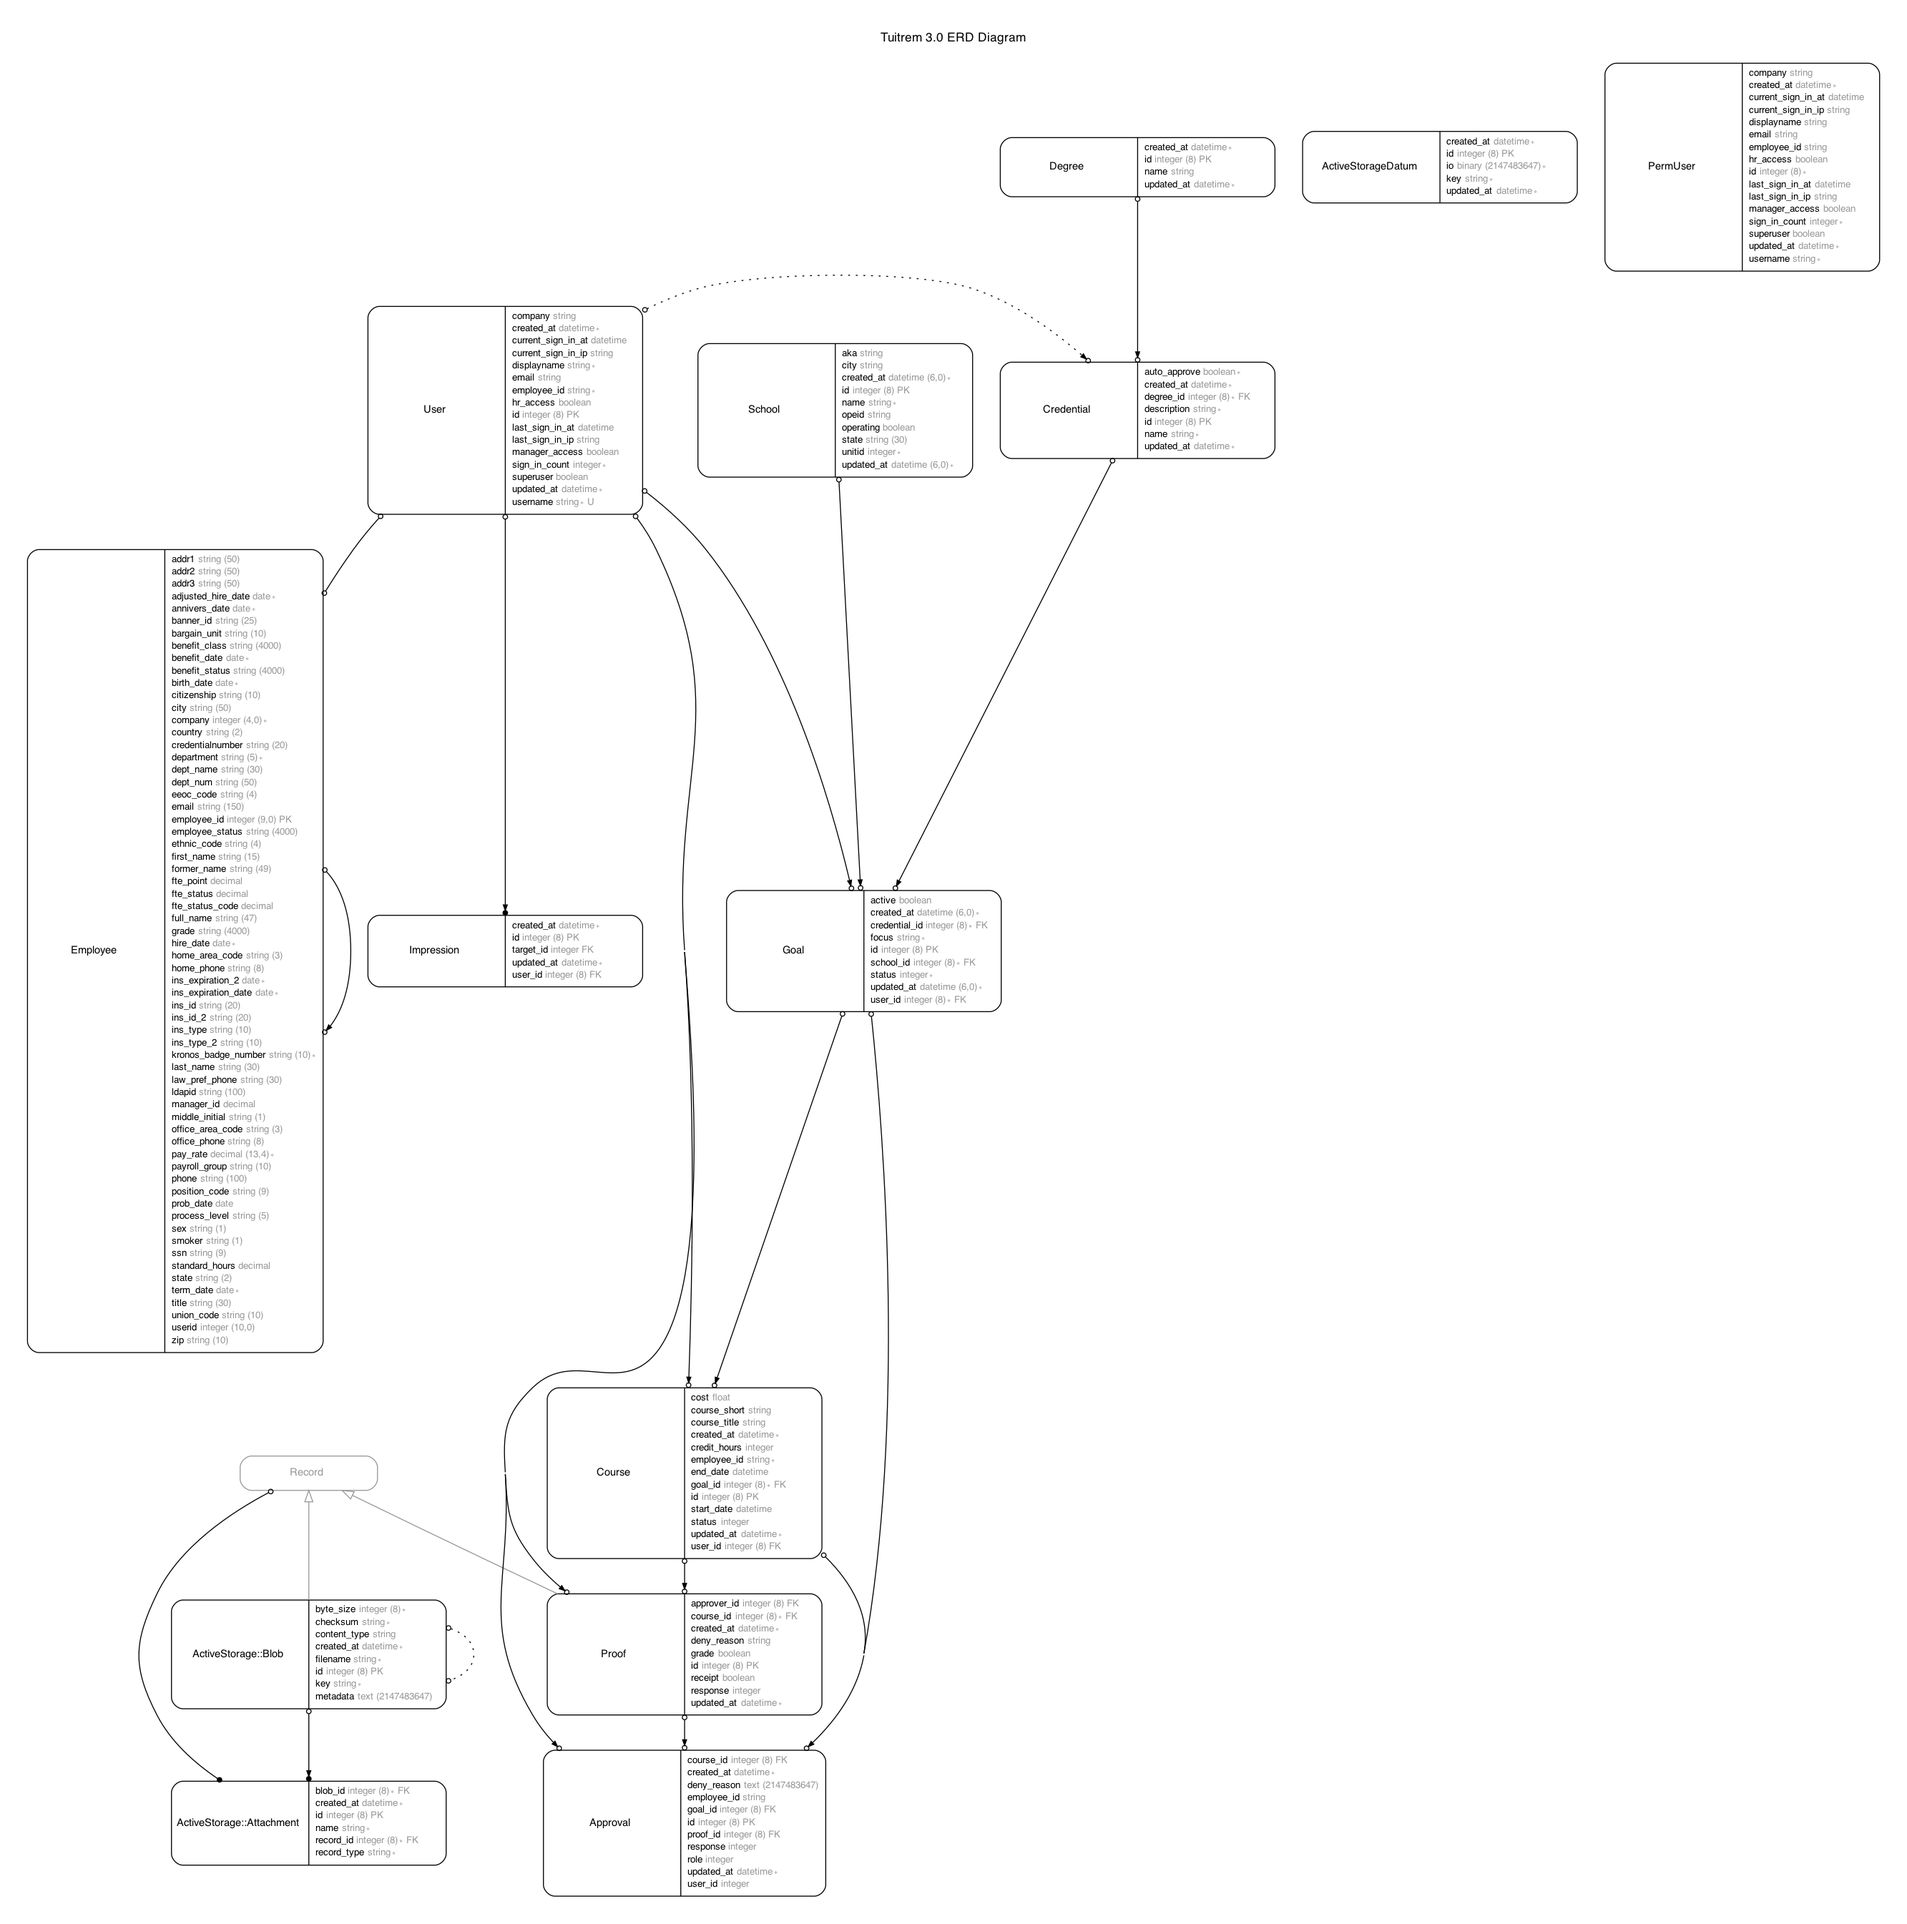
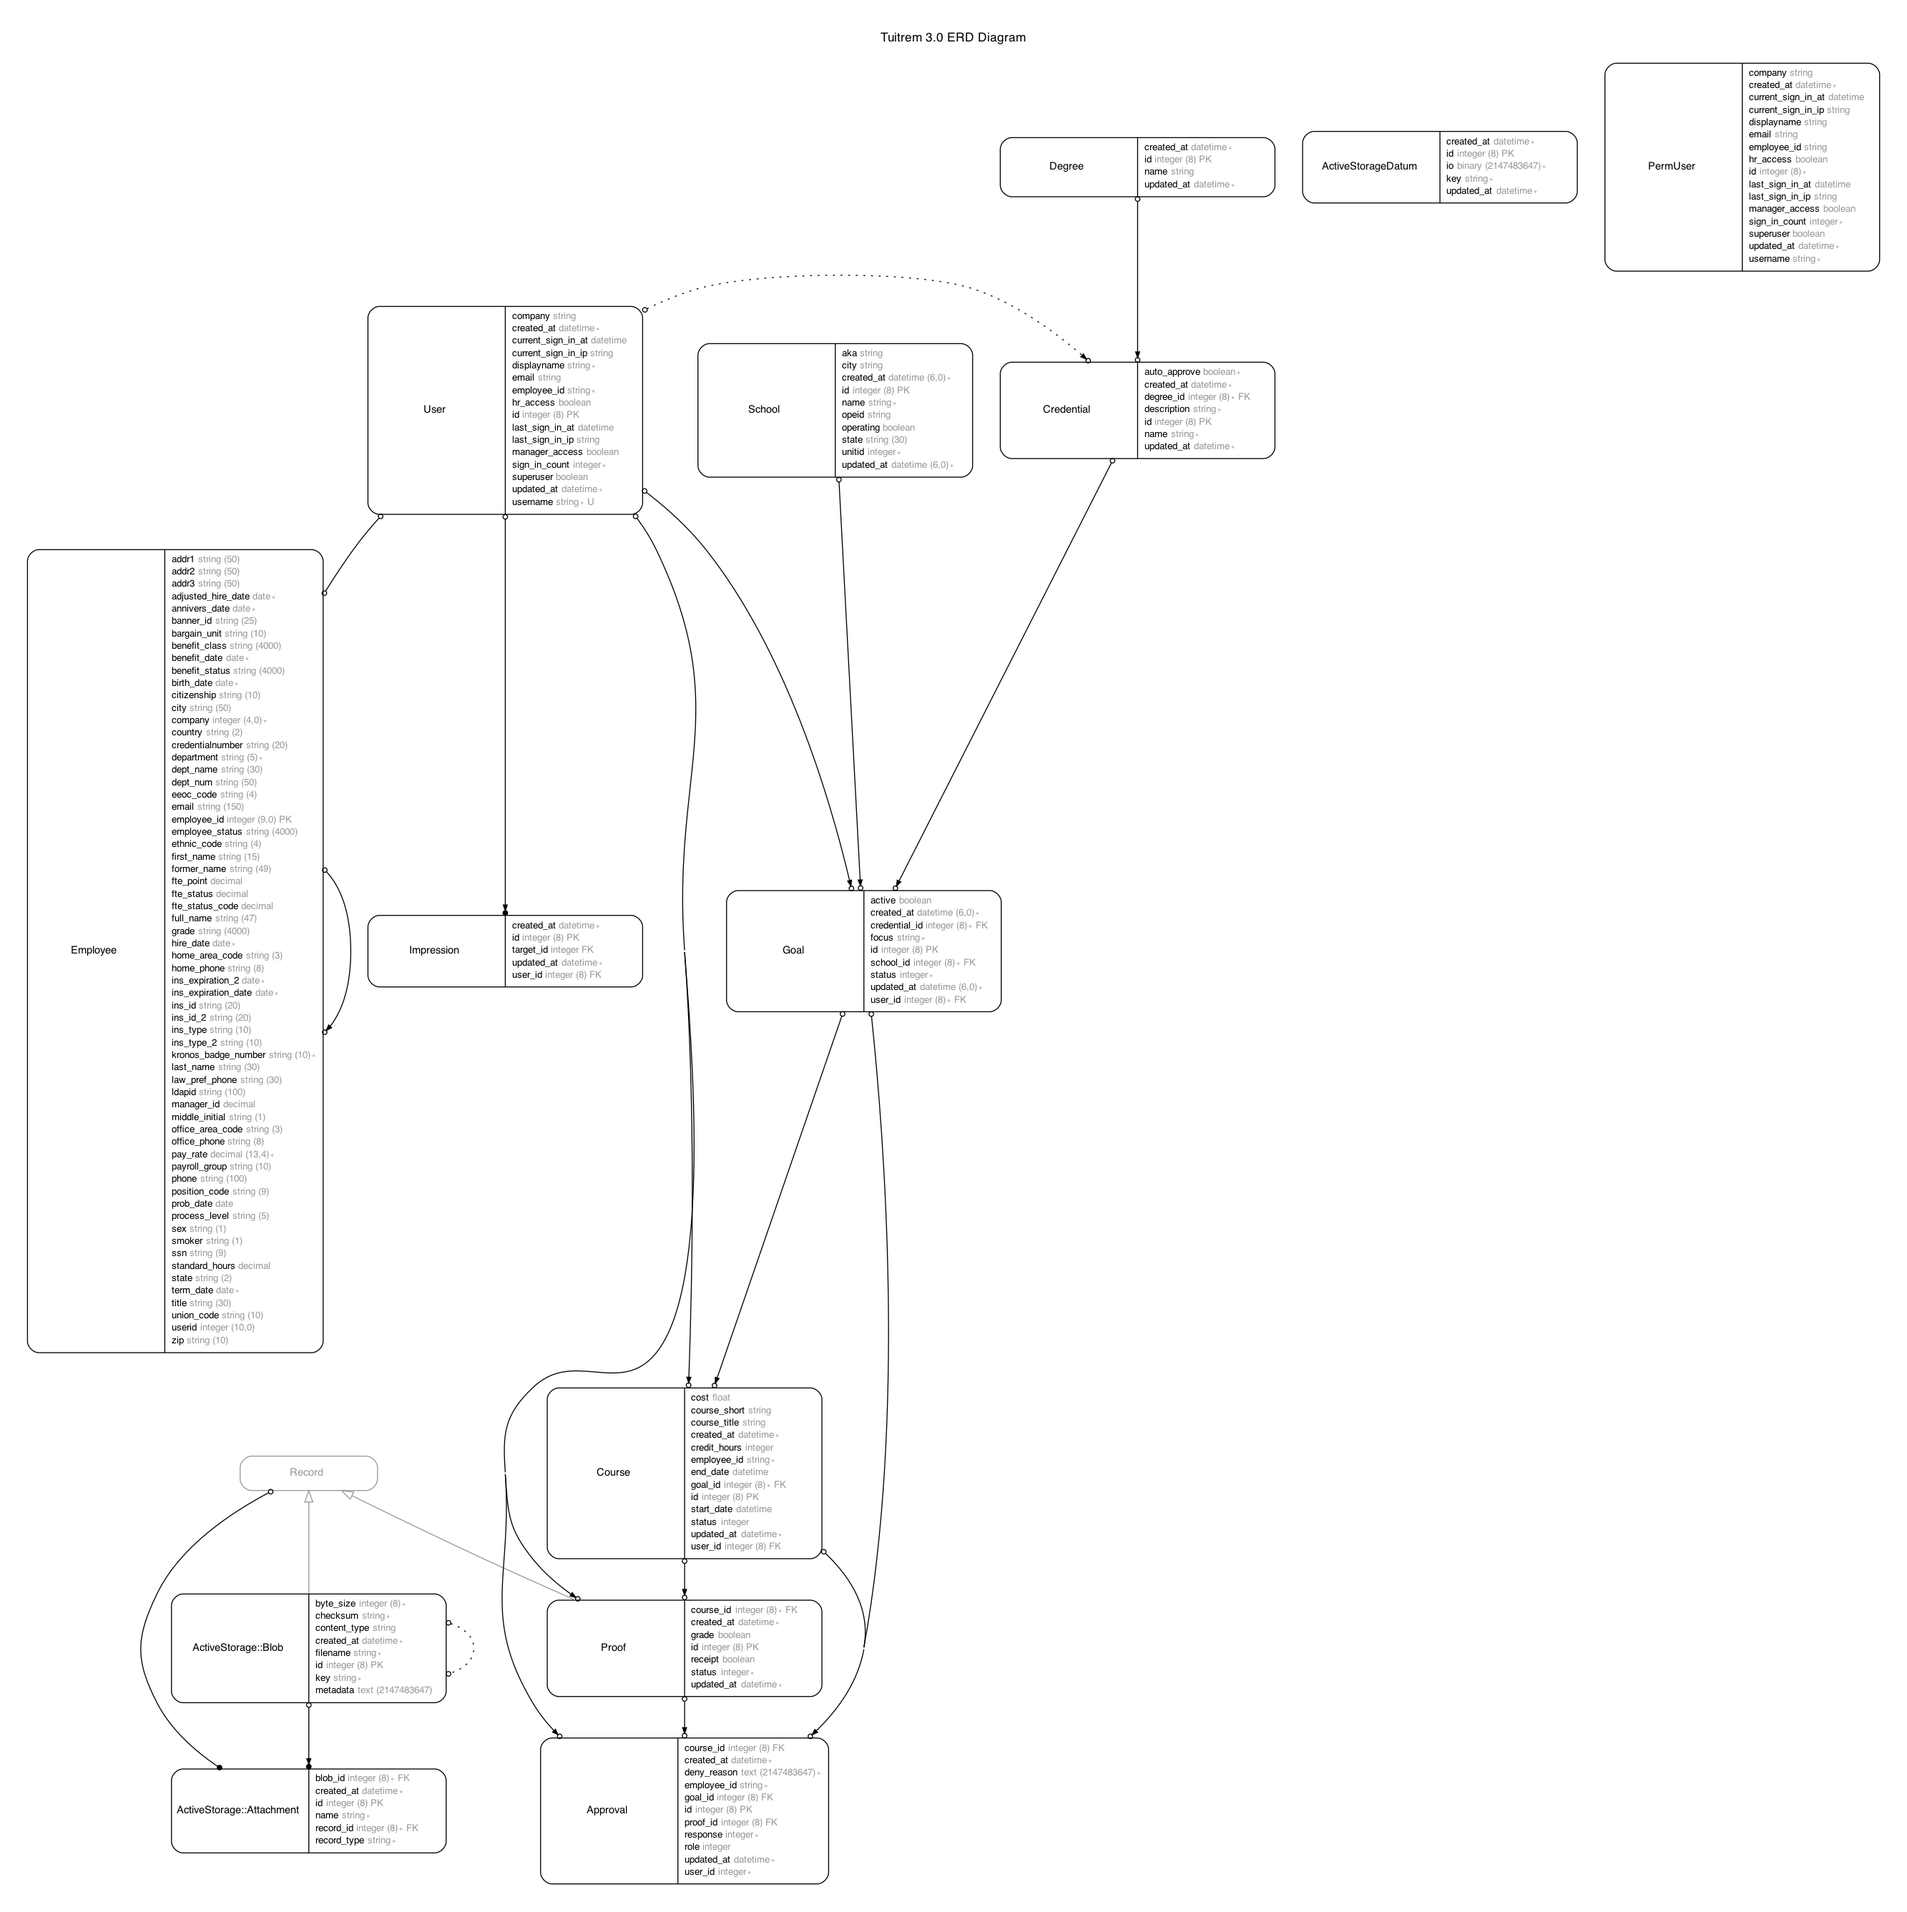
WIP #106 proofs migration to refactor proofs based on approval changes

diff --git a/app/models/proof.rb b/app/models/proof.rb
@@ -4,35 +4,30 @@
 #
 # Table name: proofs
 #
-#  id          :bigint           not null, primary key
-#  deny_reason :string(4000)
-#  grade       :boolean
-#  receipt     :boolean
-#  response    :integer
-#  created_at  :datetime         not null
-#  updated_at  :datetime         not null
-#  approver_id :bigint
-#  course_id   :bigint
+#  id         :bigint           not null, primary key
+#  grade      :boolean
+#  receipt    :boolean
+#  status     :integer          not null
+#  created_at :datetime         not null
+#  updated_at :datetime         not null
+#  course_id  :bigint
 #
 # Indexes
 #
-#  index_proofs_on_approver_id  (approver_id)
-#  index_proofs_on_course_id    (course_id)
+#  index_proofs_on_course_id  (course_id)
 #
 # Foreign Keys
 #
-#  fk_rails_...  (approver_id => users.id)
 #  fk_rails_...  (course_id => courses.id)
 #
 class Proof < ApplicationRecord
   belongs_to :course
-  belongs_to :approver, class_name: 'User', optional: true
-  has_many :approvals
+  has_many :approvals, dependent: :destroy
   has_one_attached :document, dependent: :delete
   validates :course_id, presence: true
   validates :document, presence: true
 
-  enum response: { pending: 0, denied: 1, approved: 2 }
+  enum status: { draft: 0, pending: 1, denied: 2, approved: 3, withdrawn: 4 }
 
   # Display what kind of proof documentation is being submitted - if a word doc is submitted, it could have multiple images for both types of proof, for example.
   def proof_type

diff --git a/db/schema.rb b/db/schema.rb
@@ -10,7 +10,7 @@
 #
 # It's strongly recommended that you check this file into your version control system.
 
-ActiveRecord::Schema.define(version: 2021_06_24_190240) do
+ActiveRecord::Schema.define(version: 2021_08_12_204855) do
 
   create_table "active_storage_attachments", force: :cascade do |t|
     t.string "name", null: false
@@ -118,10 +118,7 @@ ActiveRecord::Schema.define(version: 2021_06_24_190240) do
     t.bigint "course_id"
     t.datetime "created_at", null: false
     t.datetime "updated_at", null: false
-    t.bigint "approver_id"
-    t.integer "response"
-    t.string "deny_reason"
-    t.index ["approver_id"], name: "index_proofs_on_approver_id"
+    t.integer "status", null: false
     t.index ["course_id"], name: "index_proofs_on_course_id"
   end
 
@@ -168,5 +165,4 @@ ActiveRecord::Schema.define(version: 2021_06_24_190240) do
   add_foreign_key "goals", "users"
   add_foreign_key "impressions", "users"
   add_foreign_key "proofs", "courses"
-  add_foreign_key "proofs", "users", column: "approver_id"
 end

diff --git a/spec/models/proof_spec.rb b/spec/models/proof_spec.rb
@@ -2,24 +2,20 @@
 #
 # Table name: proofs
 #
-#  id          :bigint           not null, primary key
-#  deny_reason :string(4000)
-#  grade       :boolean
-#  receipt     :boolean
-#  response    :integer
-#  created_at  :datetime         not null
-#  updated_at  :datetime         not null
-#  approver_id :bigint
-#  course_id   :bigint
+#  id         :bigint           not null, primary key
+#  grade      :boolean
+#  receipt    :boolean
+#  status     :integer          not null
+#  created_at :datetime         not null
+#  updated_at :datetime         not null
+#  course_id  :bigint
 #
 # Indexes
 #
-#  index_proofs_on_approver_id  (approver_id)
-#  index_proofs_on_course_id    (course_id)
+#  index_proofs_on_course_id  (course_id)
 #
 # Foreign Keys
 #
-#  fk_rails_...  (approver_id => users.id)
 #  fk_rails_...  (course_id => courses.id)
 #
 require 'rails_helper'

diff --git a/spec/factories/proofs.rb b/spec/factories/proofs.rb
@@ -2,24 +2,20 @@
 #
 # Table name: proofs
 #
-#  id          :bigint           not null, primary key
-#  deny_reason :string(4000)
-#  grade       :boolean
-#  receipt     :boolean
-#  response    :integer
-#  created_at  :datetime         not null
-#  updated_at  :datetime         not null
-#  approver_id :bigint
-#  course_id   :bigint
+#  id         :bigint           not null, primary key
+#  grade      :boolean
+#  receipt    :boolean
+#  status     :integer          not null
+#  created_at :datetime         not null
+#  updated_at :datetime         not null
+#  course_id  :bigint
 #
 # Indexes
 #
-#  index_proofs_on_approver_id  (approver_id)
-#  index_proofs_on_course_id    (course_id)
+#  index_proofs_on_course_id  (course_id)
 #
 # Foreign Keys
 #
-#  fk_rails_...  (approver_id => users.id)
 #  fk_rails_...  (course_id => courses.id)
 #
 FactoryBot.define do

diff --git a/app/models/goal.rb b/app/models/goal.rb
@@ -7,7 +7,7 @@
 #  id            :bigint           not null, primary key
 #  active        :boolean          default(TRUE)
 #  focus         :string(4000)
-#  status        :integer          default(0), not null
+#  status        :integer          default("draft"), not null
 #  created_at    :datetime         not null
 #  updated_at    :datetime         not null
 #  credential_id :bigint

diff --git a/spec/factories/goals.rb b/spec/factories/goals.rb
@@ -5,7 +5,7 @@
 #  id            :bigint           not null, primary key
 #  active        :boolean          default(TRUE)
 #  focus         :string(4000)
-#  status        :integer          default(0), not null
+#  status        :integer          default("draft"), not null
 #  created_at    :datetime         not null
 #  updated_at    :datetime         not null
 #  credential_id :bigint

diff --git a/spec/models/goal_spec.rb b/spec/models/goal_spec.rb
@@ -5,7 +5,7 @@
 #  id            :bigint           not null, primary key
 #  active        :boolean          default(TRUE)
 #  focus         :string(4000)
-#  status        :integer          default(0), not null
+#  status        :integer          default("draft"), not null
 #  created_at    :datetime         not null
 #  updated_at    :datetime         not null
 #  credential_id :bigint

diff --git a/db/migrate/20210812204855_remove_approver_ref_from_proofs.rb b/db/migrate/20210812204855_remove_approver_ref_from_proofs.rb
@@ -1,0 +1,9 @@
+class RemoveApproverRefFromProofs < ActiveRecord::Migration[6.0]
+  def change
+    remove_index :proofs, name: :index_proofs_on_approver_id
+    remove_column :proofs, :approver_id, foreign_key: true
+    remove_column :proofs, :response, :integer
+    remove_column :proofs, :deny_reason, :string
+    add_column :proofs, :status, :integer, null: false
+  end
+end
